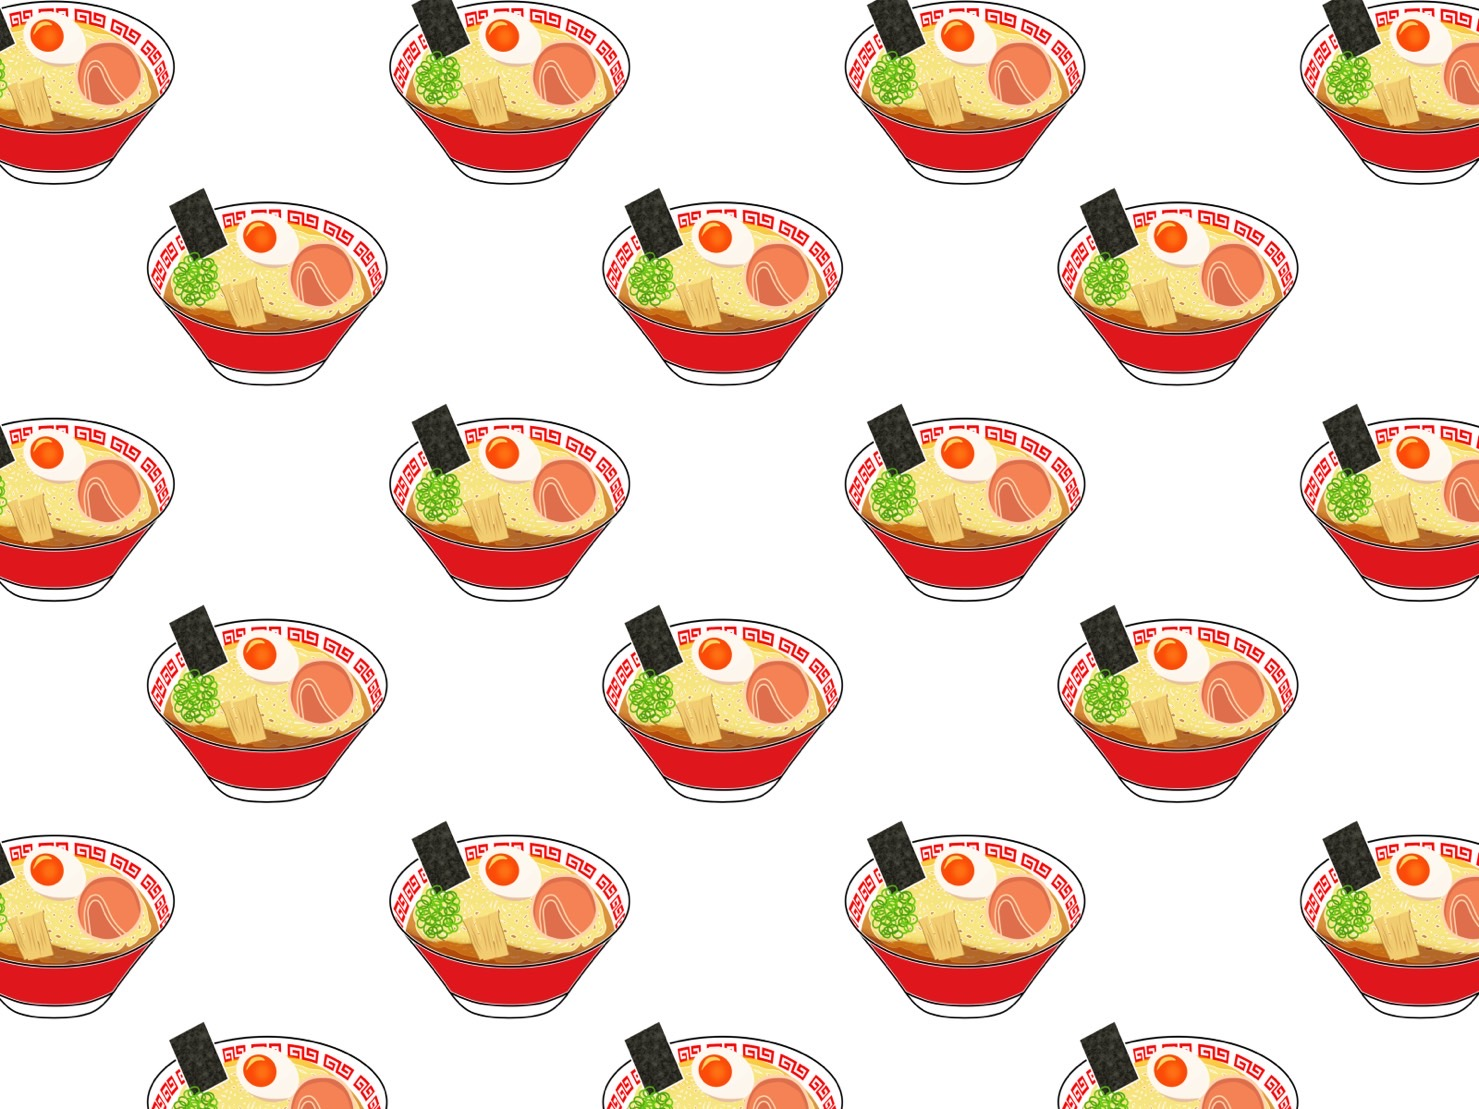
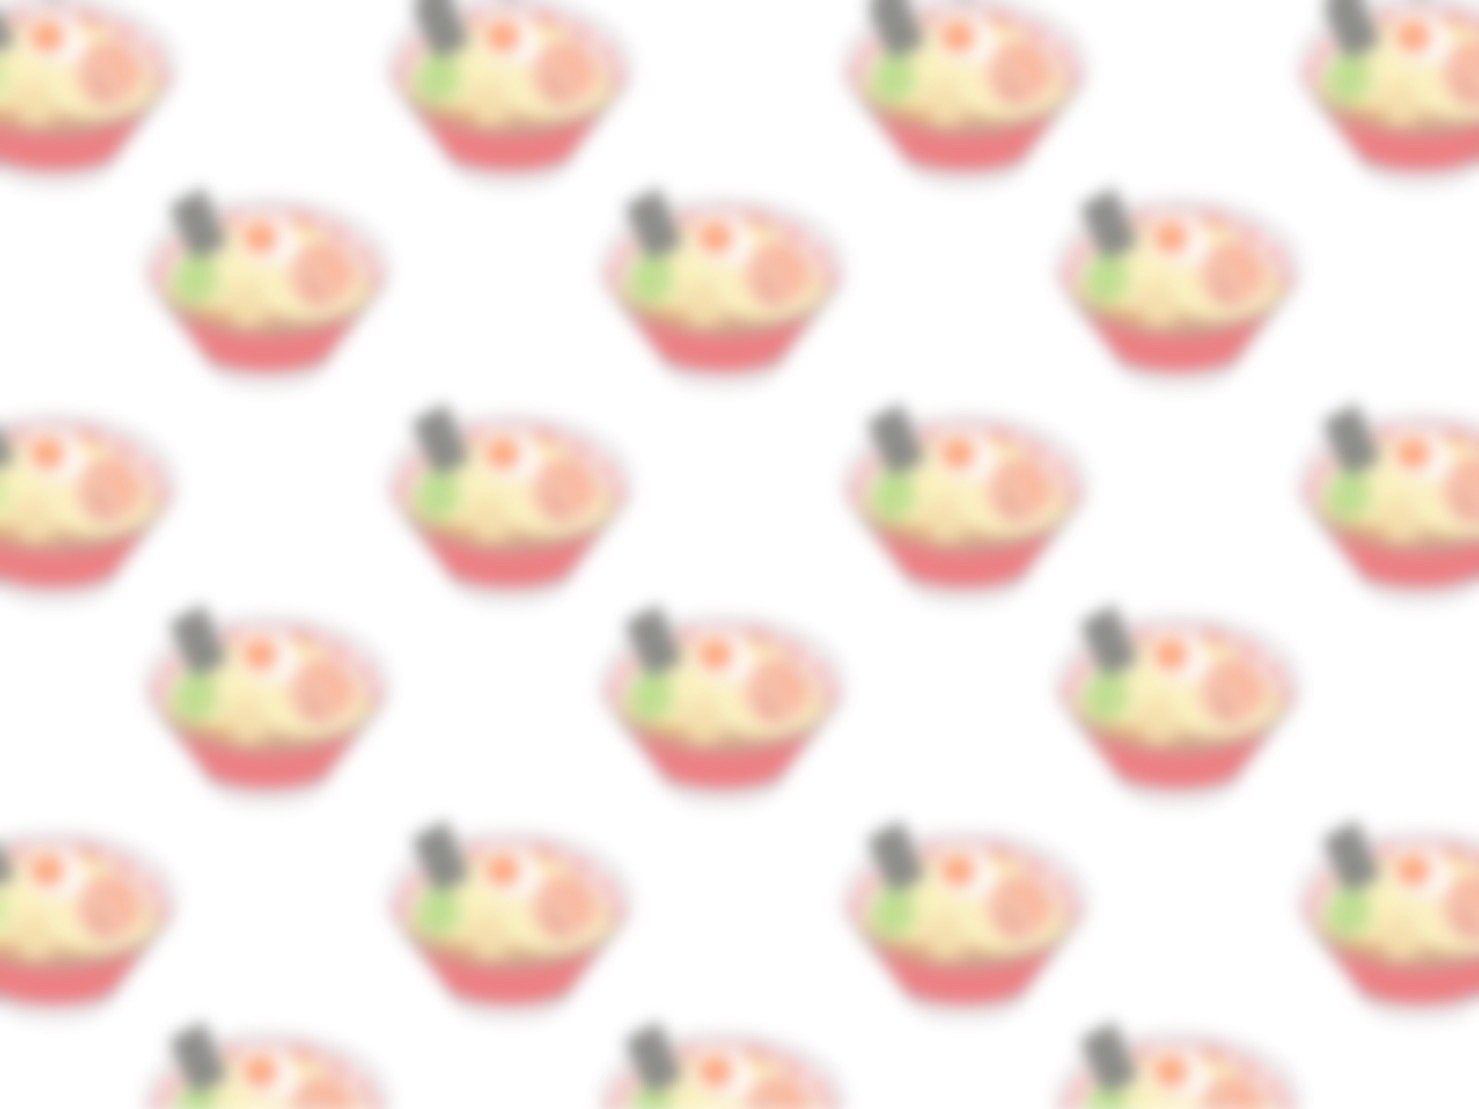
test25

diff --git a/htdocs/Hiromoto.css b/htdocs/Hiromoto.css
@@ -30,10 +30,9 @@ div.bun{
  
  } 
 body{
-    background-image:url('/hiromotoG/Sushi4.jfif');
+    background-image:url('/hiromotoG/sushi.haikei.jpg');
     background-size: contain;
     background-attachment: fixed;
-    -webkit-backdrop-filter: blur(10px);
     border: 1px solid white;
 }
 

diff --git a/htdocs/index.css b/htdocs/index.css
@@ -22,7 +22,6 @@ body{
     background-image:url(hiromotoG/Sora.jpg);
     background-size: cover;
     background-attachment: fixed;
-    -webkit-backdrop-filter: blur(10px);
     border: 0.1px solid #004d9a;
     height: 50cm;
      

diff --git a/htdocs/caffee.css b/htdocs/caffee.css
@@ -28,7 +28,6 @@ body{
     background-image:url('/hiromotoG/caffee.haikei.jpg');
     background-size: contain;
     background-attachment: fixed;
-    -webkit-backdrop-filter: blur(10px);
      border: 1px solid white;
       
 }

diff --git a/htdocs/pmra-men.css b/htdocs/pmra-men.css
@@ -65,7 +65,6 @@ body{
     background-image:url('hiromotoG/haikei.copy.jpg');
     background-size:contain;
     background-attachment: fixed;
-    -webkit-backdrop-filter: blur(10px);
     border: 1px solid white;
 }
 
